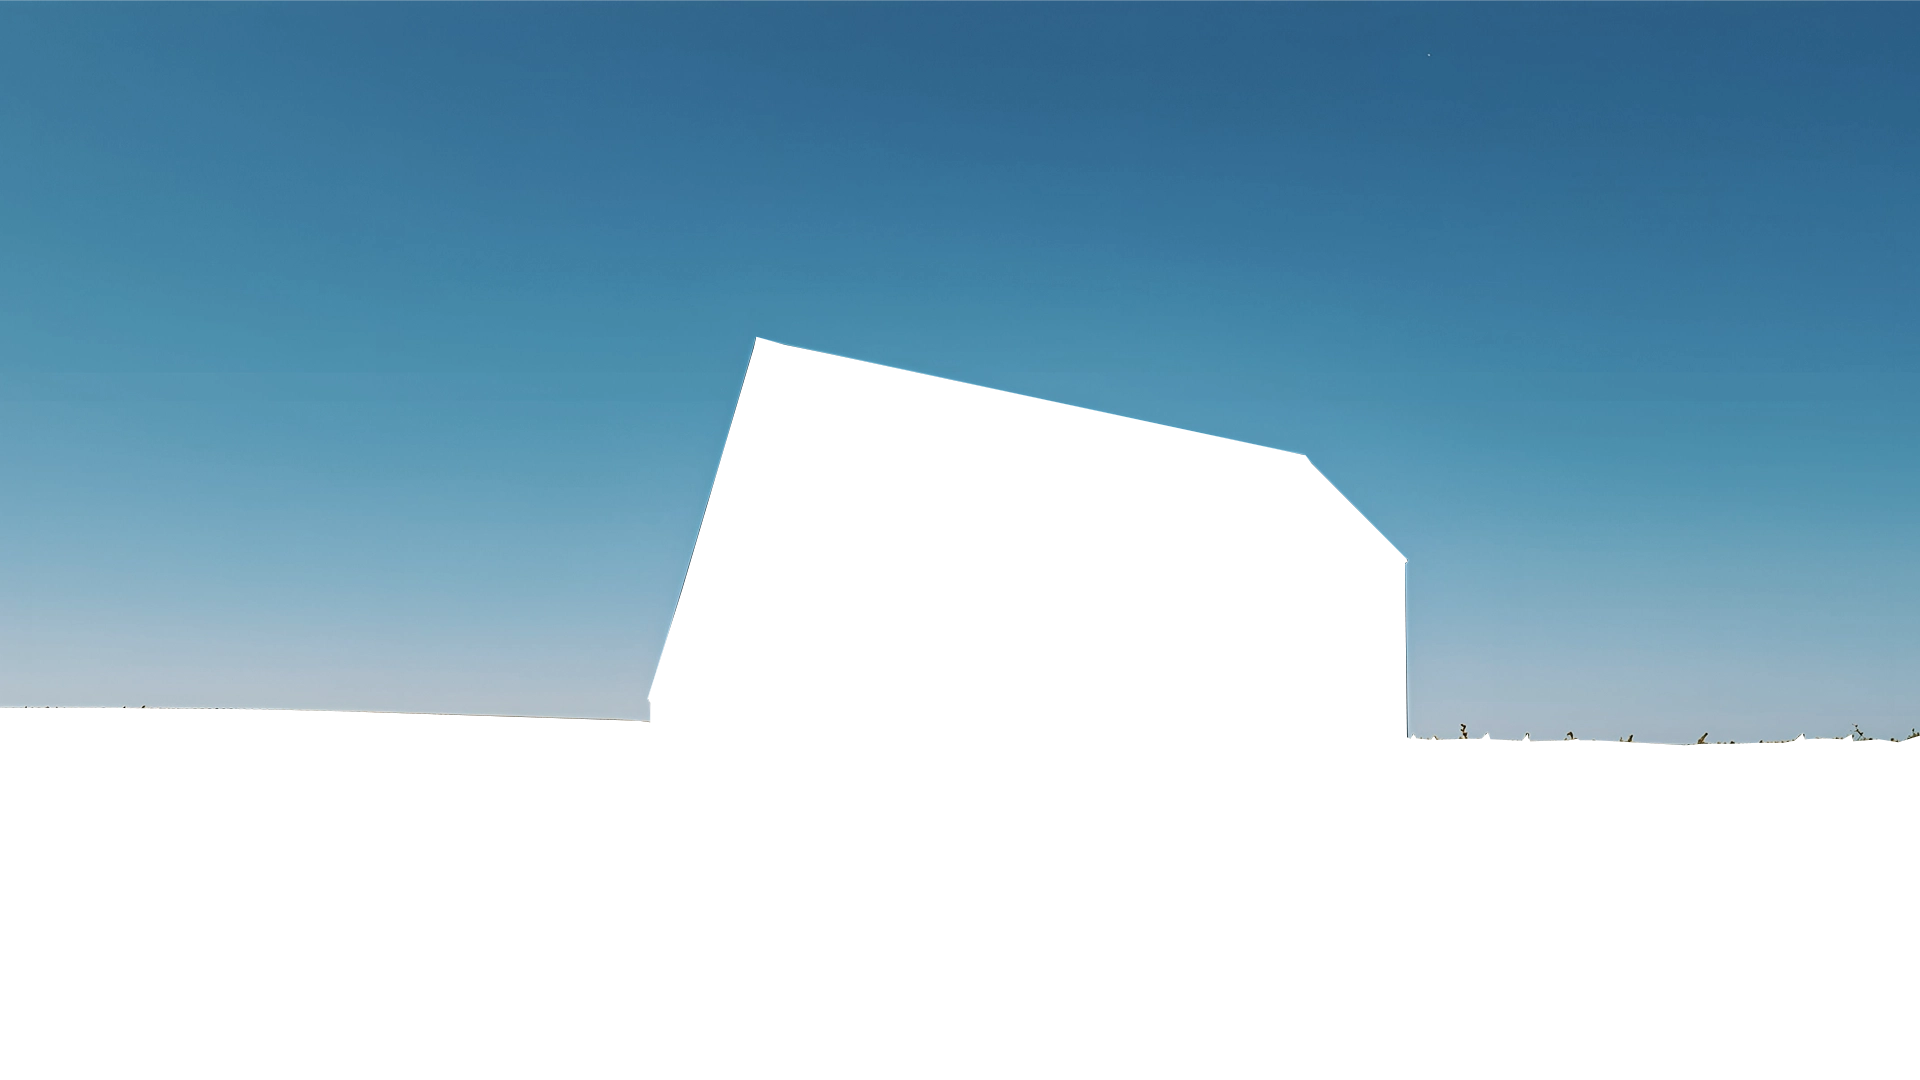
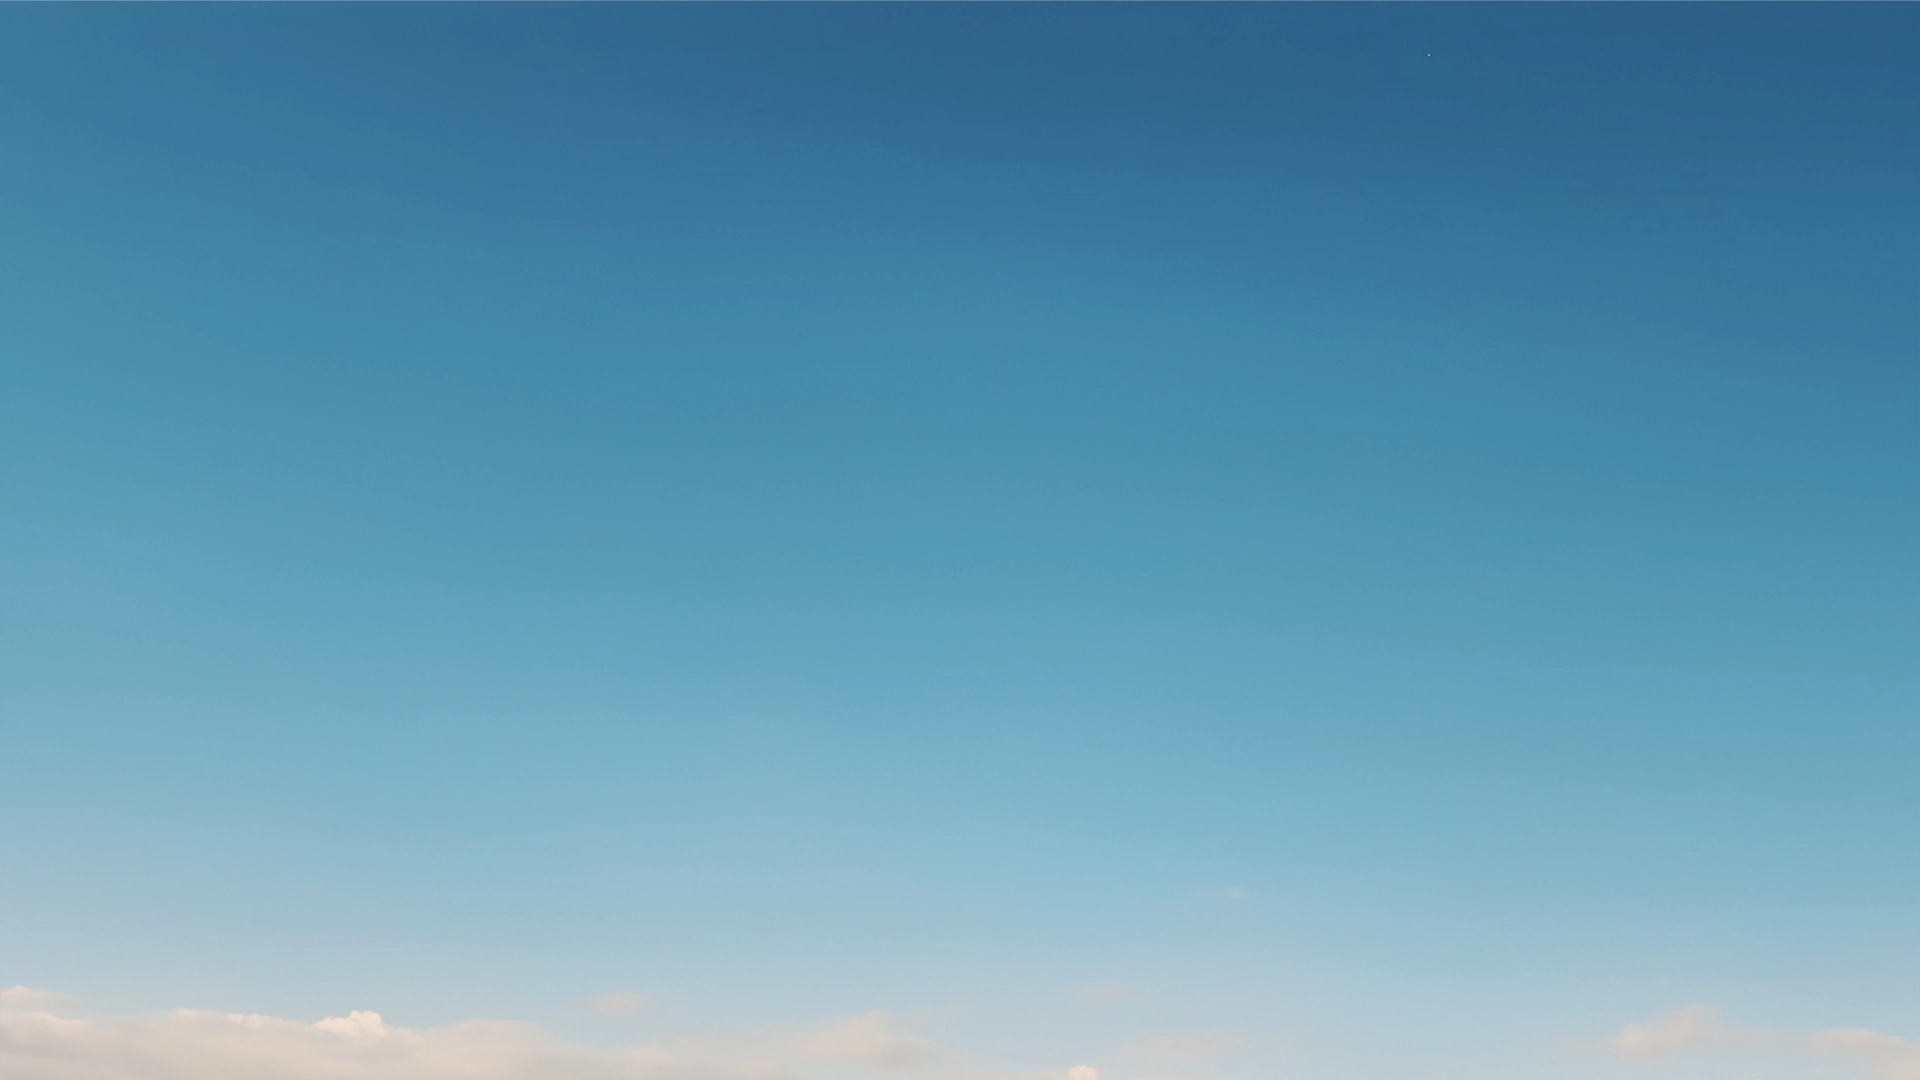
Mise Ã  jour des images du header avec versions PC et mobile

diff --git a/src/components/portfolio/details/portfolio-details-showcase-2-area.tsx b/src/components/portfolio/details/portfolio-details-showcase-2-area.tsx
@@ -149,12 +149,22 @@ export default function PortfolioDetailsShowcaseTwoArea() {
     <>
       {/* portfolio hero avec superposition d'images et parallaxe */}
       <div ref={heroRef} className="showcase-details-2-area showcase-details-2-bg p-relative overflow-hidden">
-        {/* Image de fond avec parallaxe */}
+        {/* Image de fond avec parallaxe - Version PC */}
         <div 
           ref={backgroundRef}
-          className="hero-background-image p-absolute w-100 h-100"
+          className="hero-background-image p-absolute w-100 h-100 d-none d-lg-block"
           style={{
-            backgroundImage: "url(/assets/img/inner-project/showcase/Image%20hero%201%20Background.webp)",
+            backgroundImage: "url(/assets/img/inner-project/Header%20photo/Header%20image%20PC%20Second%20plan.webp)",
+            backgroundSize: "cover",
+            backgroundPosition: "center",
+            zIndex: 1
+          }}
+        />
+        {/* Image de fond avec parallaxe - Version Mobile */}
+        <div 
+          className="hero-background-image p-absolute w-100 h-100 d-block d-lg-none"
+          style={{
+            backgroundImage: "url(/assets/img/inner-project/Header%20photo/Header%20image%20mobile%20Second%20plan.webp)",
             backgroundSize: "cover",
             backgroundPosition: "center",
             zIndex: 1
@@ -235,12 +245,23 @@ export default function PortfolioDetailsShowcaseTwoArea() {
           <LodgifySearchBar />
         </div>
 
-        {/* Image PNG au premier plan avec effet parallaxe */}
+        {/* Image PNG au premier plan avec effet parallaxe - Version PC */}
         <div 
           ref={foregroundRef}
-          className="hero-foreground-image p-absolute w-100 h-100"
+          className="hero-foreground-image p-absolute w-100 h-100 d-none d-lg-block"
           style={{
-            backgroundImage: "url(/assets/img/inner-project/showcase/Image%20hero%202%20pods.webp)",
+            backgroundImage: "url(/assets/img/inner-project/Header%20photo/Header%20image%20PC%20premier%20plan.webp)",
+            backgroundSize: "cover",
+            backgroundPosition: "center bottom",
+            zIndex: 3,
+            pointerEvents: "none"
+          }}
+        />
+        {/* Image PNG au premier plan avec effet parallaxe - Version Mobile */}
+        <div 
+          className="hero-foreground-image p-absolute w-100 h-100 d-block d-lg-none"
+          style={{
+            backgroundImage: "url(/assets/img/inner-project/Header%20photo/Header%20image%20mobile%20premier%20plan.webp)",
             backgroundSize: "cover",
             backgroundPosition: "center bottom",
             zIndex: 3,
